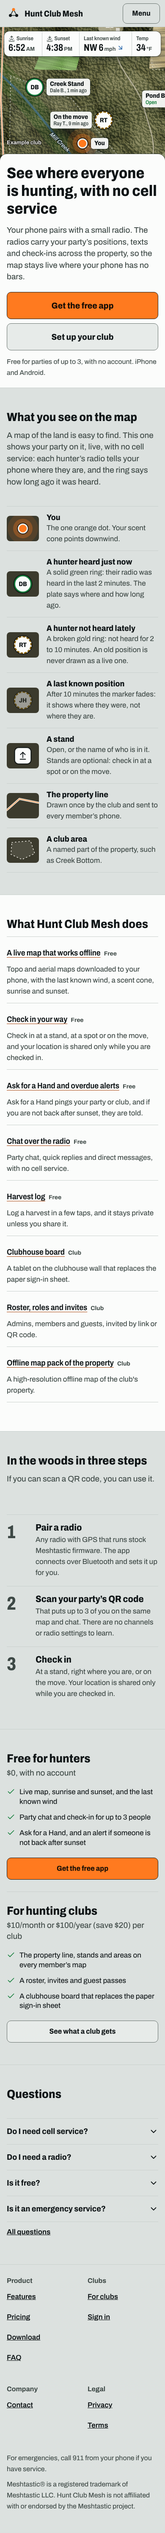
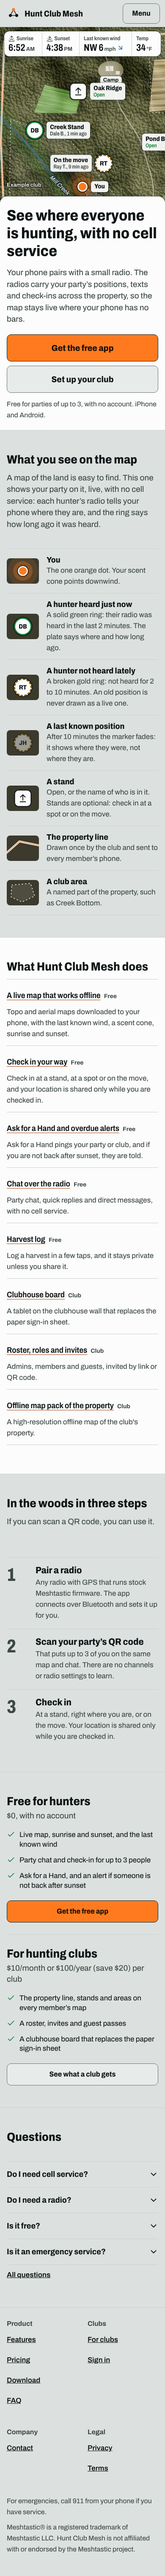
Site: valid map legend markup; keep markers and scale bar clear of the hero plates
- Legend rows are dt/dd pairs: the symbol (aria-hidden) and the term sit in the dt on
  a subgrid of the row, so the dl holds only divs of one dt and one dd.
- Hero framing: wide frame top 360 and hero 720 px tall, so the readout strip has the
  band under the property to itself; phone frame top 368 and map 400 px tall, so the
  club sits below the strip with the you dot in view.
- shoot.mjs fails if any marker (shape or plate) or the scale bar, where it shows in
  the map window, overlaps the pitch or the readout strip; checks 360, 390, 768, 1024,
  1280, 1440, 1600 and 1920.
- Screenshots retaken.

diff --git a/site/src/__tests__/site.test.ts b/site/src/__tests__/site.test.ts
@@ -583,10 +583,18 @@ describe('home page map', () => {
   it('explains the map with the freshness-ring legend, drawn with the same markers', () => {
     const legend = doc.querySelector('dl.legend')!;
     const rows = [...legend.querySelectorAll(':scope > div')];
-    // The symbols are pictures of the words beside them: hidden from screen readers, so each
-    // row reads as a plain term and definition (axe: definition-list).
-    expect(legend.querySelectorAll('.sym:not([aria-hidden="true"])')).toHaveLength(0);
-    expect(rows.map((r) => r.querySelector('dt')!.textContent)).toEqual(LEGEND.map((l) => l.title));
+    // Valid HTML: the dl holds only divs, each exactly one dt then one dd. The symbol is inside
+    // the dt and hidden from screen readers (a picture of the words beside it).
+    expect([...legend.children].map((c) => c.tagName)).toEqual(rows.map(() => 'DIV'));
+    for (const row of rows) {
+      expect([...row.children].map((c) => c.tagName)).toEqual(['DT', 'DD']);
+      const sym = row.querySelector('dt > .sym')!;
+      expect(sym.getAttribute('aria-hidden')).toBe('true');
+    }
+    expect(legend.querySelectorAll('.sym')).toHaveLength(LEGEND.length);
+    expect(rows.map((r) => r.querySelector('dt > .term')!.textContent)).toEqual(
+      LEGEND.map((l) => l.title),
+    );
     for (const freshness of ['fresh', 'stale', 'faded'] as const) {
       expect(legend.querySelector(`.mk.hunter.${RING_CLASS[freshness]}`)).not.toBeNull();
     }

diff --git a/site/src/map/mapCss.ts b/site/src/map/mapCss.ts
@@ -10,10 +10,15 @@ import { SAMPLE_CLUB, SAMPLE_CONDITIONS, SAMPLE_LABELS, SAMPLE_SCALE } from './s
 /** At this width and below the hero stacks: the map on top, the pitch rising over it as a sheet. */
 export const MAP_PHONE_MAX_WIDTH = 700;
 
-/** Which part of the aerial each layout frames: its top-left corner, in aerial px. */
+/**
+ * Which part of the aerial each layout frames: its top-left corner, in aerial px. Chosen with
+ * HERO_HEIGHT so no marker or the scale bar sits under a floating plate: on a wide screen the
+ * club sits between the pitch and the readout strip, which has the band under the property to
+ * itself; on a phone the club sits below the strip. site/scripts/shoot.mjs checks it.
+ */
 export const MAP_FRAME = {
-  wide: [240, 350],
-  phone: [790, 470],
+  wide: [240, 360],
+  phone: [790, 368],
 } as const satisfies Record<string, AerialPoint>;
 
 /**
@@ -23,7 +28,7 @@ export const MAP_FRAME = {
 export const MAP_COVERED_WIDTH = 1920;
 
 /** The hero's height on a wide screen, and the map's height above the sheet on a phone. */
-export const HERO_HEIGHT = { wide: 664, phone: 300 } as const;
+export const HERO_HEIGHT = { wide: 720, phone: 400 } as const;
 
 const pct = (n: number) => `${Math.round(n * 100)}%`;
 const at = ([x, y]: AerialPoint) => `left: ${x}px; top: ${y}px;`;

diff --git a/site/src/styles.ts b/site/src/styles.ts
@@ -166,10 +166,13 @@ p a { color: var(--theme-accent-text); font-weight: 650; }
 
 /* The map legend: each line has its symbol drawn on map ground. */
 .legend { margin: 0; }
-.legend > div { display: grid; grid-template-columns: 76px 1fr; gap: 0 18px; align-items: center; }
-.legend dt { grid-column: 2; align-self: end; ${textStyleCss(textScale.title3)}; font-stretch: 90%; }
-.legend dd { grid-column: 2; align-self: start; margin: 0; color: var(--theme-text-secondary); }
-.legend .sym { grid-row: 1 / span 2; grid-column: 1; }
+/* Each row is a dt/dd pair; the dt holds the symbol and the term on a subgrid of the row. */
+.legend > div { display: grid; grid-template-columns: 76px 1fr; grid-template-rows: auto auto; gap: 0 18px; }
+.legend dt { grid-column: 1 / -1; grid-row: 1 / span 2; display: grid; grid-template-columns: subgrid;
+  grid-template-rows: subgrid; ${textStyleCss(textScale.title3)}; font-stretch: 90%; }
+.legend .sym { grid-column: 1; grid-row: 1 / span 2; align-self: center; }
+.legend .term { grid-column: 2; grid-row: 1; align-self: end; }
+.legend dd { grid-column: 2; grid-row: 2; align-self: start; margin: 0; color: var(--theme-text-secondary); }
 
 /* Steps: a real sequence, so numbered. */
 .steps { counter-reset: step; margin: 26px 0 0; }

diff --git a/site/src/pages/Home.tsx b/site/src/pages/Home.tsx
@@ -145,10 +145,12 @@ export function Home(props: { aerialUrl: string }) {
           <dl className="legend rows">
             {LEGEND.map((row) => (
               <div key={row.title}>
-                <span className="sym" aria-hidden="true">
-                  {row.sym}
-                </span>
-                <dt>{row.title}</dt>
+                <dt>
+                  <span className="sym" aria-hidden="true">
+                    {row.sym}
+                  </span>
+                  <span className="term">{row.title}</span>
+                </dt>
                 <dd>{row.text}</dd>
               </div>
             ))}
